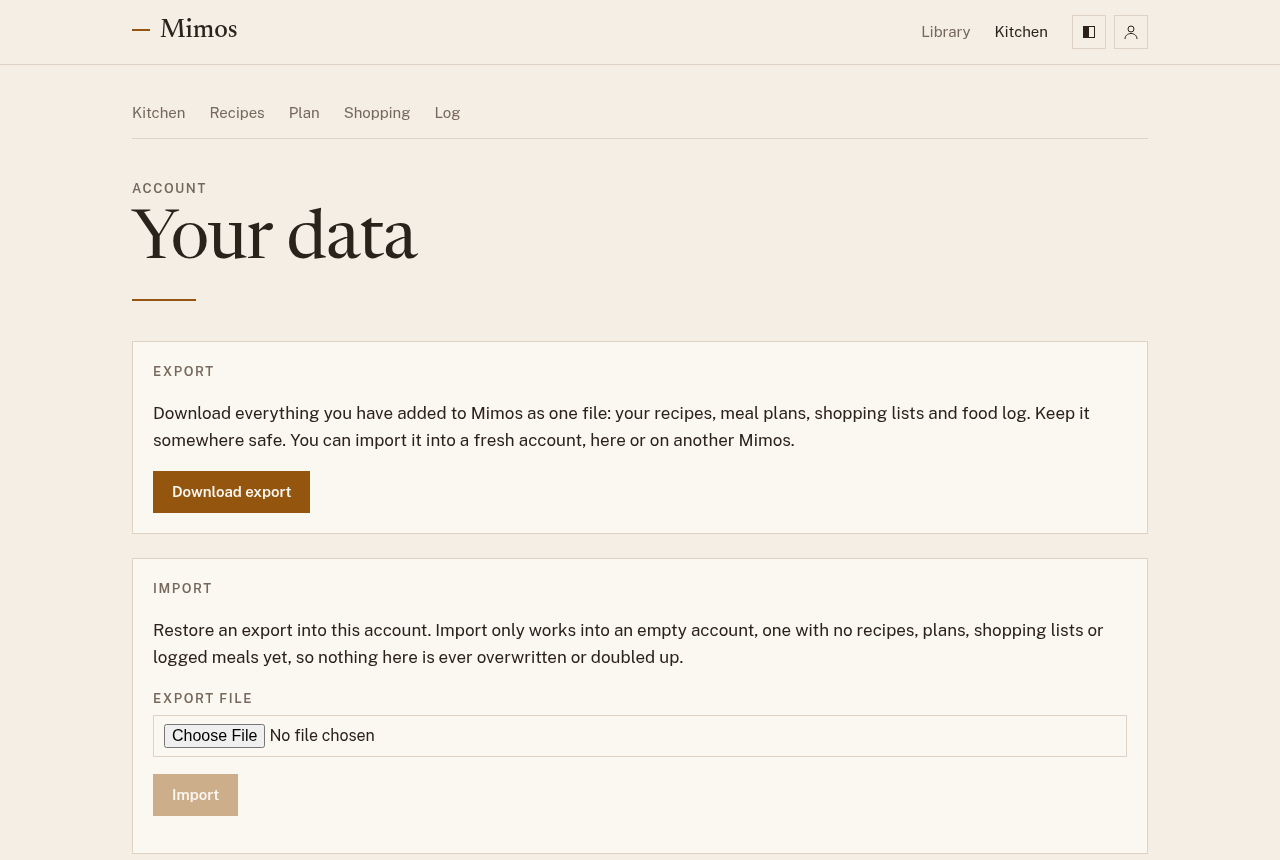
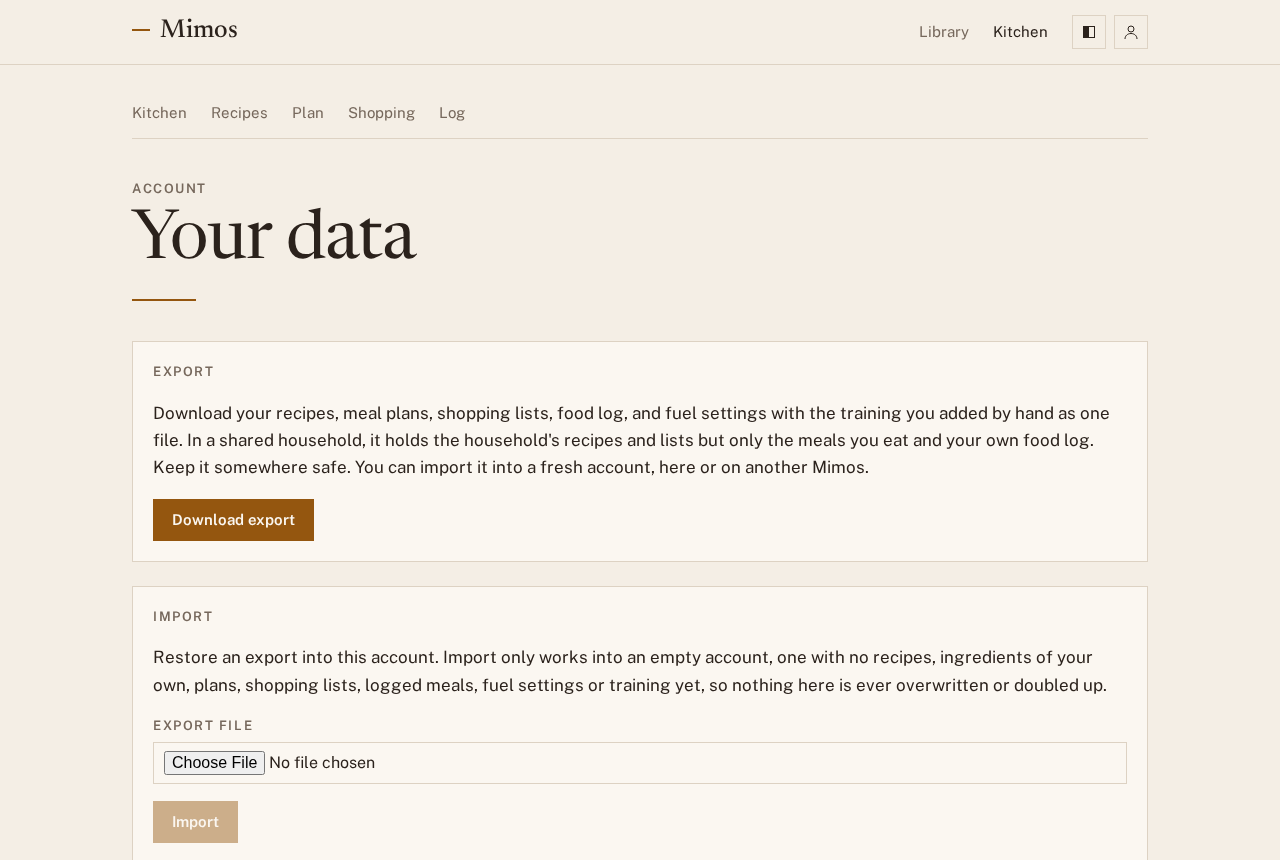
docs: describe fuel settings, export format 5, and core-fueling

diff --git a/AGENTS.md b/AGENTS.md
@@ -50,7 +50,7 @@ change** — an out-of-date AGENTS.md is worse than none.
 | Households | Every user belongs to exactly one household; a user on their own is a household of one, created with their profile. The household (`household`, `user_profile.household_id`) owns recipes, personal ingredients, plans, shopping lists, and plugin opt-ins and pseudonyms, all keyed by `household_id`; meal logs stay per person. Membership is Mimos domain data, not Keycloak groups. Every member is equal: any member reads and edits the household's data and creates invites, anyone may leave, nobody removes anyone. Recipes record who added them (`created_by_profile_id`; `createdBy` in the API, "Added by" in the web). Every plan entry names one or more diners, all members of its household (`meal_plan_entry_diner`; `diners` in the API as `Person`s). A create request without diners gives a dinner every member and any other meal the caller alone; the entry patch changes servings, diners, or both; an empty list or a non-member is a 400. Both writes hold the household's membership for their transaction (`HouseholdService.holdMembership`: share locks on the caller's profile row, then the household row), so nobody joins or leaves until they commit. `servings` is the amount cooked, so the shopping list ignores diners, and plugins never see them. Logging a planned meal logs the caller's share, servings divided by diners (to 0.1, editable before saving; `apps/web/src/lib/diners.ts`); Log shows only on meals the caller eats. Each person's planned total for a day (`GET /api/v1/plans/{startDate}/my-totals`, `MealPlanService.plannedTotals`, ADR-0022) sums that same share of every meal they eat, all servings when they eat alone; a value the recipe lacks adds nothing while its known values count, as Log records them, a value no meal that day has is absent from the total rather than zero, and a meal whose recipe lacks any of the four is counted in `mealsWithoutNutrition`. The plan page shows it on each day in Mine, and always in a household of one, never in Everyone. The plan page toggles Mine (meals the caller eats) and Everyone, remembered per browser, and the Kitchen home shows only meals the caller eats; a household of one sees no chips, no toggle, and the old default of 2 servings, while a shared household starts a meal at one serving per default diner. Any member creates a single-use invite valid for seven days (`household_invite`, SHA-256 of the token only; the web link is `/app/join/{token}`); joining from a household of one brings its recipes and ingredients and deletes its plans, lists, plugin opt-ins and pseudonyms; joining from a shared household leaves it first; leaving keeps the household's data, removes the leaver as a diner (deleting entries left with none), and unlinks their logs from its recipes. A plugin is on or off for the whole household and sees one `subject` per household. The account export stays one person's (see "Account data"). API under `/api/v1/household`; join, leave, and the invite preview are `x-mcp: false`. Web: the Household page (`/app/household`, in the profile menu) and `/app/join/[token]`. See ADR-0019. |
 | Sign-up    | Keycloak self-registration, reached with OIDC `prompt=create` through `AuthProvider.signUp`, which every Create account button calls (the home page, and `SignInPrompt` on every signed-out page; the invite page returns to the invite). `MIMOS_SIGNUP` (`open` by default; any other value is closed) decides whether the web offers it; the realm's registration switch enforces it, so closing sign-up sets both. Identity and access stay separate: a paid sign-up later is a new `SignupPolicy` value whose `signUp` adds a Mimos checkout, plus an API-side entitlement on the household, never a gate inside Keycloak. See ADR-0020. |
 | Public API | Unauthenticated read-only access to the curated library under `/api/v1/public/**` (SEO pages). Personal recipes never appear there; everything else requires a bearer token. |
-| Account data | Per-person export/import as one versioned JSON document (`GET /api/v1/account/export`, `POST /api/v1/account/import`): domain-shaped, never a table dump; the household's recipes, ingredients, and shopping lists, only the plan entries the exporter eats (weeks with none are left out), and the exporter's own logs; library recipes by slug; recipe links by the linked recipe's id within the document, restored linked-first; import only into an empty household of one (no recipes, own ingredients, planned meals, list items, or logs, and no other member; 409 otherwise), atomically, through domain validation, with the importer as every entry's only diner. Current format: version 4. Format changes, including a change to what a section holds, bump the version, add an `ExportUpgrader` step and a frozen `export/v<N>.json` test fixture. See ADR-0011, ADR-0018, ADR-0019. |
+| Account data | Per-person export/import as one versioned JSON document (`GET /api/v1/account/export`, `POST /api/v1/account/import`): domain-shaped, never a table dump; the household's recipes, ingredients, and shopping lists, only the plan entries the exporter eats (weeks with none are left out), the exporter's own logs, and their fuel profile and hand-entered training sessions (synced sessions and the intervals.icu key never); library recipes by slug; recipe links by the linked recipe's id within the document, restored linked-first; import only into an empty household of one (no recipes, own ingredients, planned meals, list items, logs, fuel profile, or training sessions, and no other member; 409 otherwise), atomically, through domain validation, with the importer as every entry's only diner. Current format: version 5. Format changes, including a change to what a section holds, bump the version, add an `ExportUpgrader` step and a frozen `export/v<N>.json` test fixture. See ADR-0011, ADR-0018, ADR-0019, ADR-0022. |
 | Plugins    | HTTP sidecar plugins, pull-only in v1: config registry (`mimos.plugins.*`), manifest at `GET /manifest`, two capabilities (`plan-suggestions` cards, `week-panel` declarative panels with buttons), library-only context, households named by a per-plugin pseudonym (`subject`) the plugin may keep its own data against. See ADR-0006, ADR-0017. Registered means available; each household opts in from the Plugins page (`/app/plugins`, linked from the profile menu; API `/api/v1/me/plugins`), and every plugin starts off. See ADR-0013. |
 | Agent access | MCP server inside `mimos-api` at `/mcp` (Spring AI 2.0.x MCP server starter, stateless Streamable HTTP; Spring AI's model layer excluded). Tools are derived from `contracts/api/openapi.yaml` at startup: every `/api/v1` operation is a tool unless it declares `x-mcp: false`, and a call loops back through the HTTP API with the caller's token. Agents sign in as the public Keycloak client `mimos-agent` (Authorization Code + PKCE), found through Protected Resource Metadata (RFC 9728). See ADR-0014. |
 | Agent harness | `tools/harness` (`@mimos/harness`, TypeScript on Node type stripping) behind a devenv `harness` script; all agent tooling from devenv/nixpkgs; Playwright pinned to nixpkgs' `playwright-driver`; `.mcp.json` committed; debug-only behavior in `deploy/docker/compose.debug.yml`; scenarios run in CI via devenv. Plan and decisions in `docs/harness/`. |
@@ -114,11 +114,15 @@ wire-format contract:
   Depends on the core modules' public interfaces only; external API types
   never cross this boundary. Optional at runtime — no plugins registered,
   no behavior.
-- `core-fueling` — planned (ADR-0022). Fuel profiles, training
-  sessions, and daily fuel targets, keyed by profile id. Depends on no
+- `core-fueling` — fuel profiles and training sessions (ADR-0022),
+  keyed by profile id, with their JDBC persistence (`fuel_profile`,
+  `training_session`); daily fuel targets are planned. Depends on no
   other module and knows nothing about households, plans, or
   intervals.icu; `apps/api` puts a day's target next to the caller's
-  planned and logged totals.
+  planned and logged totals. `FuelService` edits only `MANUAL`
+  sessions; a synced one changes only when its source syncs. A profile
+  never saved is targets off, never a 404 (`/api/v1/me/fuel-profile`,
+  `/api/v1/me/training`; package `fueling` in `apps/api`).
 - `integrations/intervals-icu` — planned (ADR-0022). External API types
   never cross this boundary; translate events, activities, and wellness
   into `core-fueling` training sessions at the edge. A sync replaces a
@@ -320,7 +324,7 @@ mimos/
 ├── core/
 │   ├── core-recipes/     # recipe domain module
 │   ├── core-planning/    # planning domain module
-│   └── core-fueling/     # fuel profiles, training sessions, daily targets (ADR-0022, planned)
+│   └── core-fueling/     # fuel profiles, training sessions, daily targets (ADR-0022)
 ├── integrations/
 │   ├── plugins/          # plugin runtime: registry, extension-API client, card validation (ADR-0006)
 │   └── intervals-icu/    # training sync from intervals.icu (ADR-0022, planned)

diff --git a/docs/guide/household.md b/docs/guide/household.md
@@ -12,13 +12,13 @@ To see yours, open the profile menu at the top right and choose
 
 ## What is shared
 
-| Shared with your household       | Yours alone   |
-| -------------------------------- | ------------- |
-| Recipes, and who added each one  | Your food log |
-| Ingredients you added            |               |
-| Meal plans                       |               |
-| Shopping lists                   |               |
-| Plugins and what they remember   |               |
+| Shared with your household       | Yours alone                     |
+| -------------------------------- | ------------------------------- |
+| Recipes, and who added each one  | Your food log                   |
+| Ingredients you added            | Your fuel settings and training |
+| Meal plans                       |                                 |
+| Shopping lists                   |                                 |
+| Plugins and what they remember   |                                 |
 
 Everyone in a household is equal. Anyone can add, change, or delete its
 recipes, plan its meals, and tick off its shopping list. A recipe someone
@@ -63,8 +63,8 @@ What joining does depends on whether you share a household already:
   ingredients, meal plans, and shopping lists stay with it, including the
   ones you added.
 
-Either way, your food log stays yours. Nobody else in the household sees
-it.
+Either way, your food log, fuel settings, and training stay yours. Nobody else in
+the household sees them.
 
 ## Leave a household
 
@@ -80,6 +80,7 @@ When you leave:
   removed from the plan.
 - You keep your food log. Meals you logged from the household's recipes
   keep their calories and macros but no longer link to the recipe.
+- You keep your fuel settings and training.
 - You start again as a household of one.
 
 Nobody can remove someone else from a household. If you are the only one

diff --git a/docs/guide/your-data.md b/docs/guide/your-data.md
@@ -8,7 +8,8 @@ at the top right and choose **Your data**.
 ## Exporting
 
 Choose **Download export** to save one file with your recipes, meal plans,
-shopping lists, and food log. Keep it somewhere safe as a backup, or use it
+shopping lists, food log, and fuel settings with the training you added
+by hand. Keep it somewhere safe as a backup, or use it
 to move to another Mimos.
 
 If you share a [household](household.md), the export is still just yours.
@@ -28,7 +29,8 @@ one.
 2. Choose **Import**. Mimos reports what it restored, and any warnings.
 
 Import only works into an empty account: one with no recipes, ingredients
-of your own, plans, shopping lists, or logged meals yet. That way nothing
+of your own, plans, shopping lists, logged meals, fuel settings, or
+training yet. That way nothing
 is ever overwritten or doubled up. It also needs you to be on your own: if
 you share a [household](household.md), leave it first. If you've already started using the new account, ask
 whoever runs it to give you a fresh one.

diff --git a/docs/guide/index.md b/docs/guide/index.md
@@ -50,11 +50,13 @@ The row of links under the header takes you to each part of Mimos:
 
 The square with a person icon, at the top right, opens your profile menu:
 
-![The profile menu: your name, Household, Plugins, Your data, and Sign out](../assets/screenshots/profile-menu.png){ width="420" }
+![The profile menu: your name, Household, Plugins, Fuel, Your data, and Sign out](../assets/screenshots/profile-menu.png){ width="420" }
 
 - **Household** shows who you share recipes, plans, and shopping with, and
   invites someone new. See [Household](household.md).
 - **Plugins** turns add-ons on and off. See [Plugins](plugins.md).
+- **Fuel** turns on daily fuel targets and holds what they are worked out
+  from: your weight, your goal, and your training.
 - **Your data** downloads everything you've added, or restores it. See
   [Your data](your-data.md).
 - **Sign out** signs you out on this device.

diff --git a/docs/harness/usage.md b/docs/harness/usage.md
@@ -84,7 +84,9 @@ without errors), `app-nav` (the app nav has no vertical overflow,
 which would show a scrollbar beside its links), `keycloak-theme`
 (Keycloak's sign-in, error, and register pages wear the Mimos theme
 and follow the app's light or dark choice, ADR-0021; screenshots at
-phone and desktop width), and `account-data` (registers
+phone and desktop width), `fuel-profile` (a fresh account saves its fuel
+profile from the Fuel page, protein follows the goal, and each value the
+API refuses gets its own error, ADR-0022), and `account-data` (registers
 two fresh accounts: one writes a recipe and downloads its export, which
 it cannot import over its own data; the other imports it, ADR-0011). See [writing a scenario](step-2-browser.md#writing-a-scenario).
 For exploration before a scenario exists, `.mcp.json` registers a
